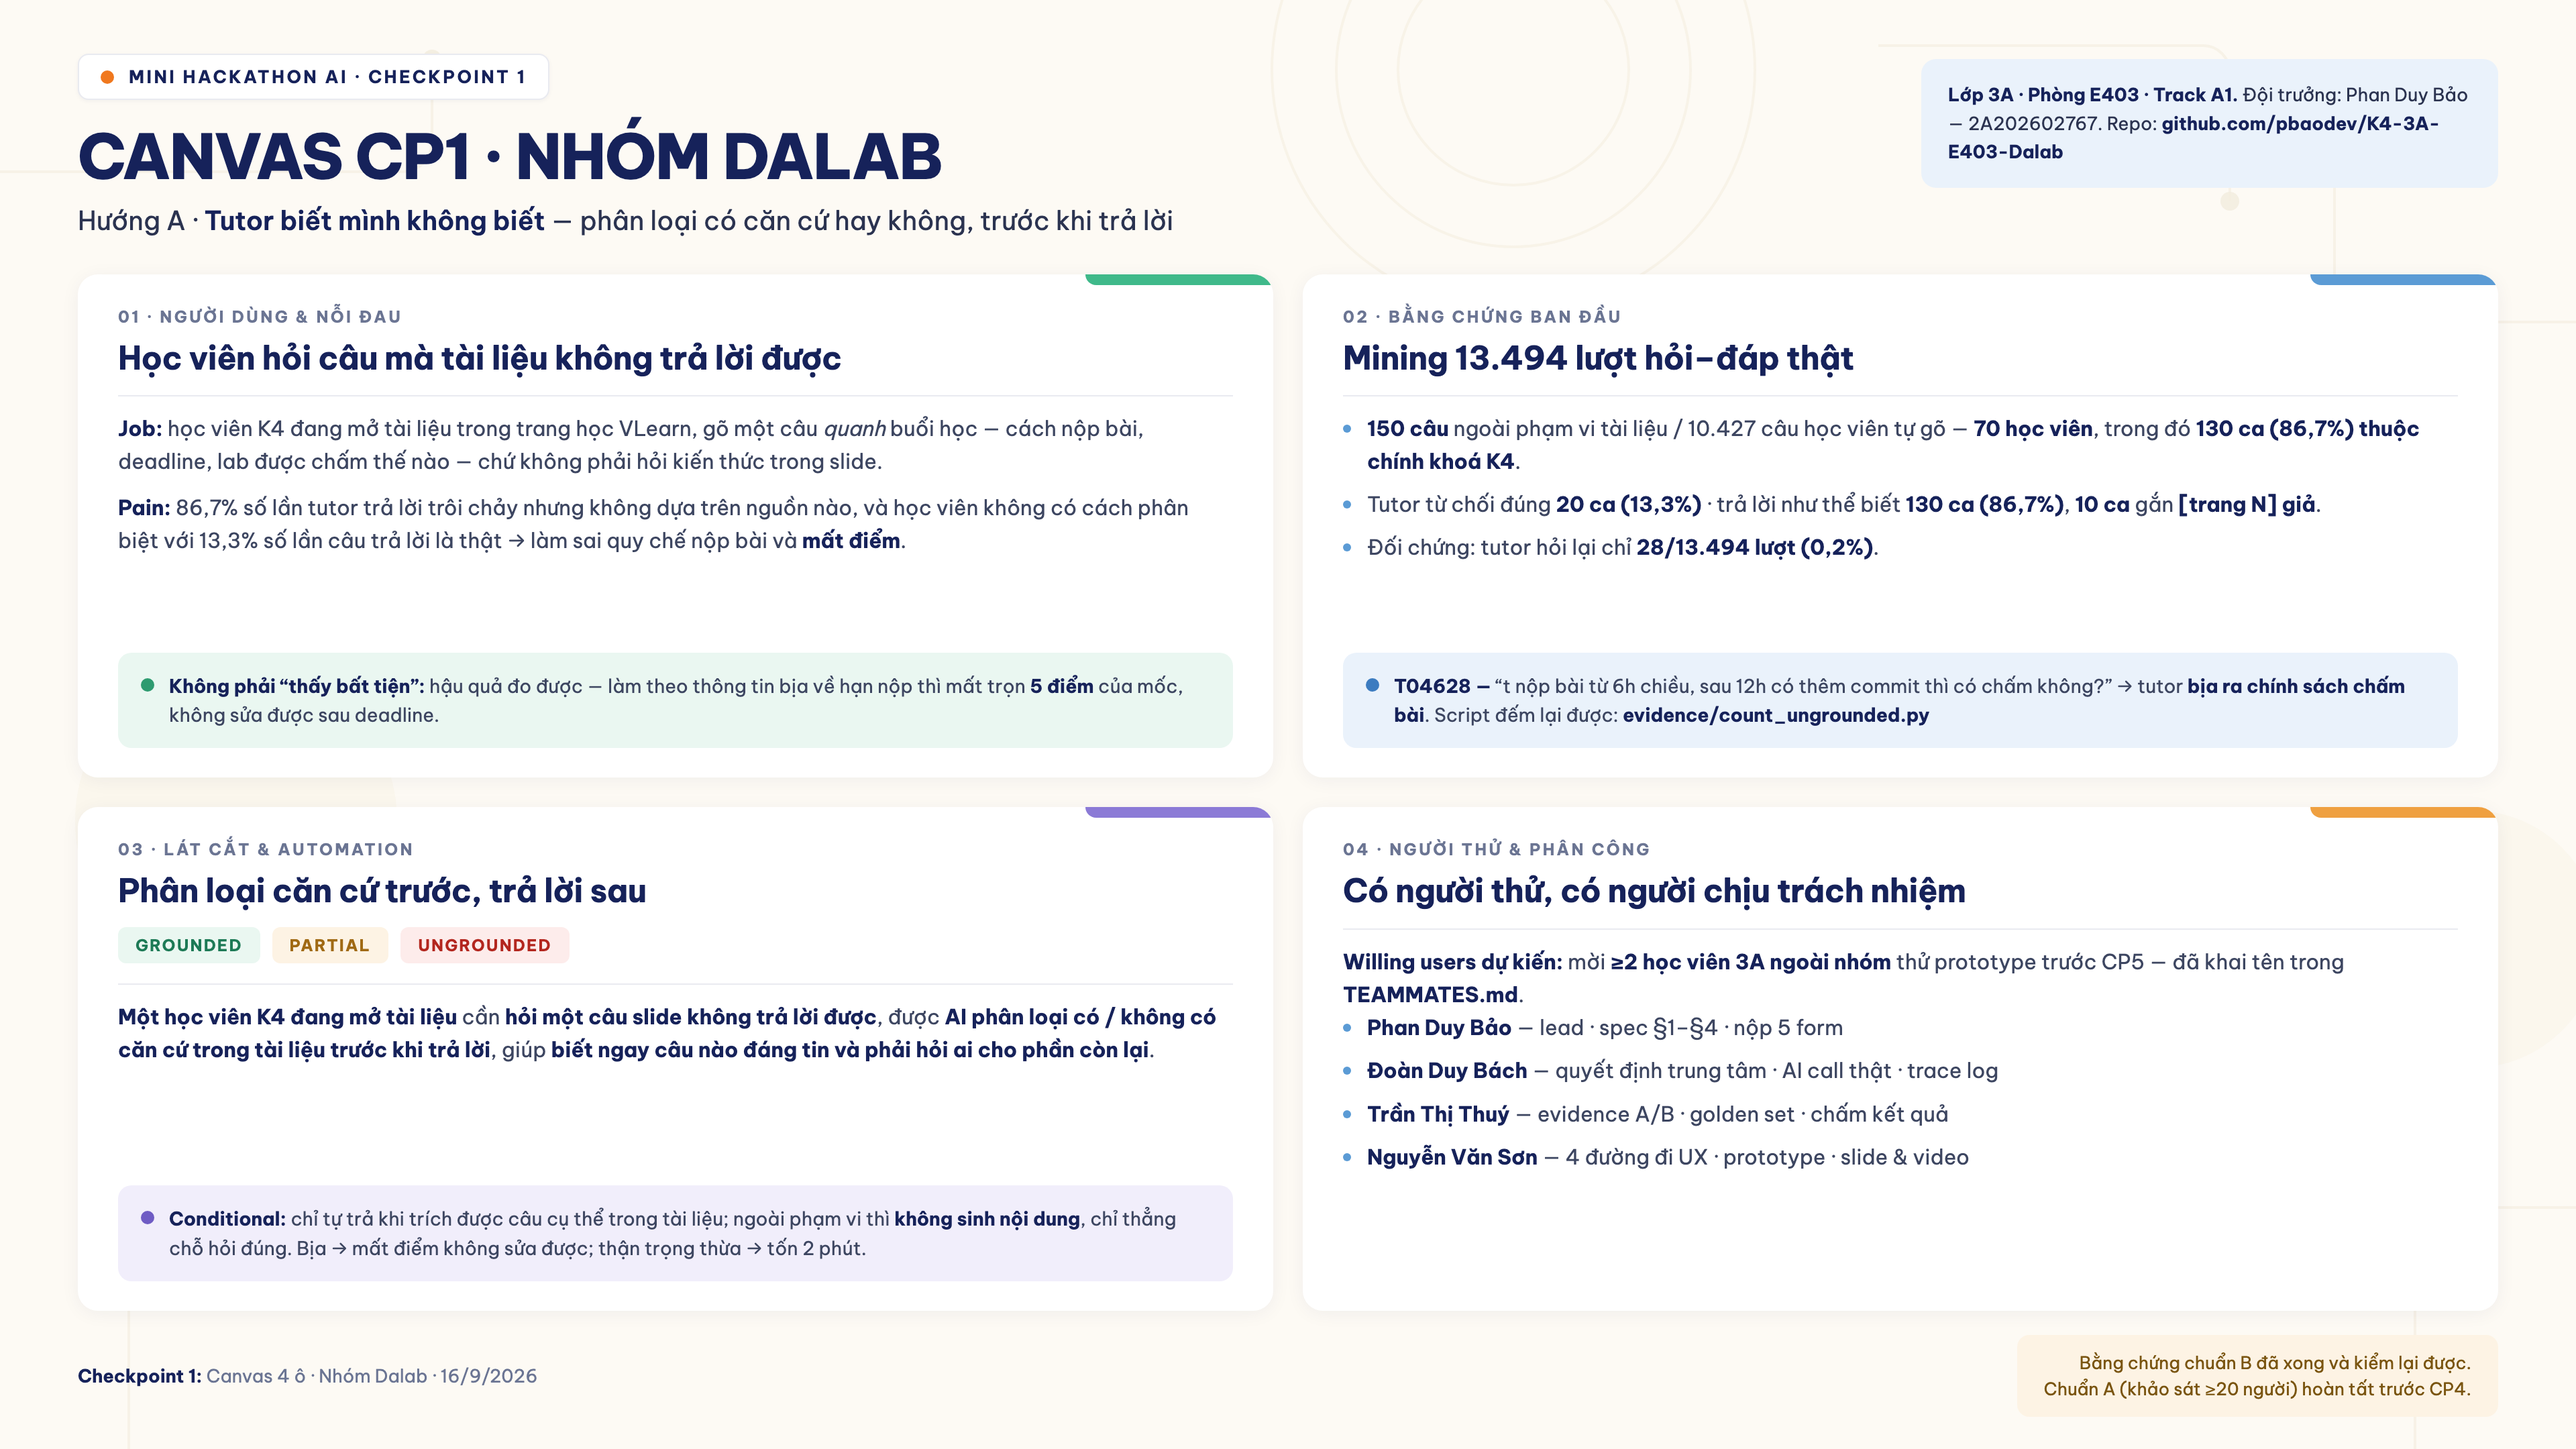
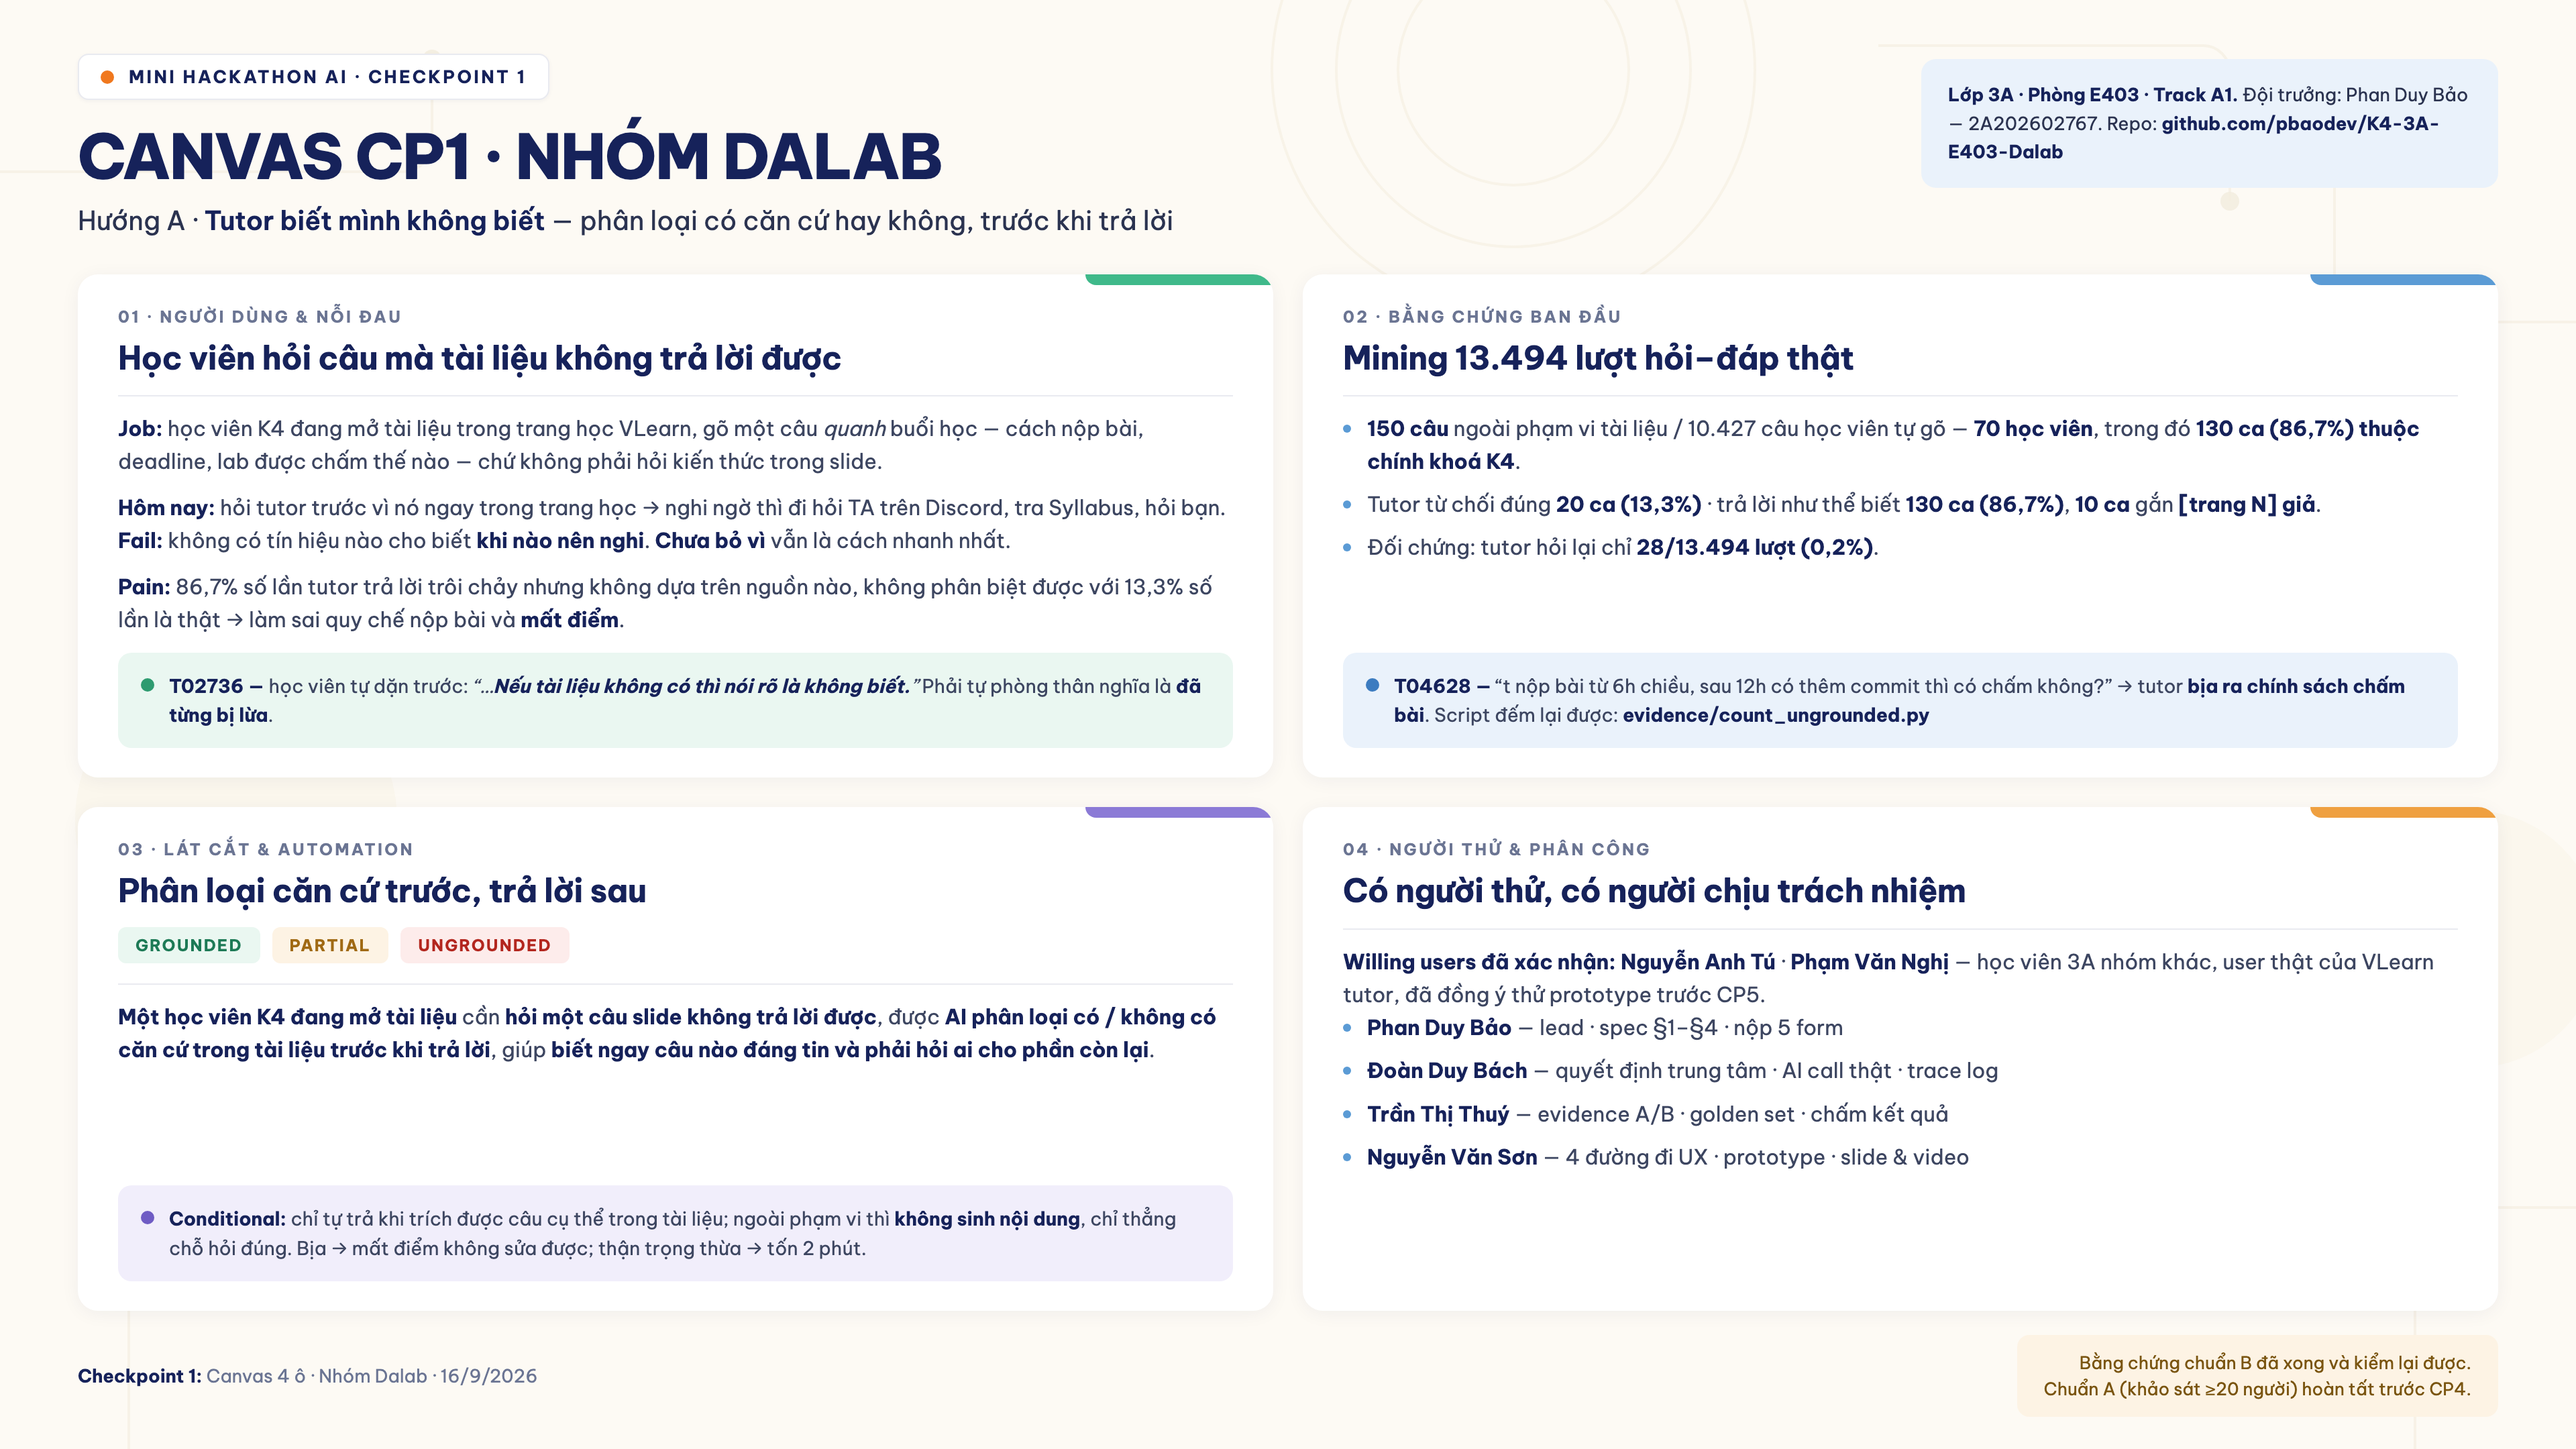
docs: khai willing users va bo sung quy trinh hien tai
- TEAMMATES.md: Nguyen Anh Tu, Pham Van Nghi (da dong y thu prototype)
- spec.md §1: them bang quy trinh hien tai + bang chung T02736
- canvas md/html/png: dong bo ten that, o 01 them 'hom nay / fail / chua bo vi'

Changed region(s): [[0.0312, 0.3412, 0.4688, 0.4343], [0.5312, 0.6514, 0.9375, 0.7134], [0.0625, 0.4653, 0.4688, 0.4963]]

diff --git a/docs/cp1-canvas.html b/docs/cp1-canvas.html
@@ -131,9 +131,10 @@
       <h2>Học viên hỏi câu mà tài liệu không trả lời được</h2>
       <div class="rule"></div>
       <p><b>Job:</b> học viên K4 đang mở tài liệu trong trang học VLearn, gõ một câu <i>quanh</i> buổi học — cách nộp bài, deadline, lab được chấm thế nào — chứ không phải hỏi kiến thức trong slide.</p>
-      <p><b>Pain:</b> 86,7% số lần tutor trả lời trôi chảy nhưng không dựa trên nguồn nào, và học viên không có cách phân biệt với 13,3% số lần câu trả lời là thật → làm sai quy chế nộp bài và <b>mất điểm</b>.</p>
+      <p><b>Hôm nay:</b> hỏi tutor trước vì nó ngay trong trang học → nghi ngờ thì đi hỏi TA trên Discord, tra Syllabus, hỏi bạn. <b>Fail:</b> không có tín hiệu nào cho biết <b>khi nào nên nghi</b>. <b>Chưa bỏ vì</b> vẫn là cách nhanh nhất.</p>
+      <p><b>Pain:</b> 86,7% số lần tutor trả lời trôi chảy nhưng không dựa trên nguồn nào, không phân biệt được với 13,3% số lần là thật → làm sai quy chế nộp bài và <b>mất điểm</b>.</p>
       <div class="callout ct-green">
-        <div><b>Không phải “thấy bất tiện”:</b> hậu quả đo được — làm theo thông tin bịa về hạn nộp thì mất trọn <b>5 điểm</b> của mốc, không sửa được sau deadline.</div>
+        <div><b>T02736 —</b> học viên tự dặn trước: <i>“…<b>Nếu tài liệu không có thì nói rõ là không biết.</b>”</i> Phải tự phòng thân nghĩa là <b>đã từng bị lừa</b>.</div>
       </div>
     </div>
 
@@ -170,7 +171,7 @@
       <div class="tag">04 · Người thử &amp; phân công</div>
       <h2>Có người thử, có người chịu trách nhiệm</h2>
       <div class="rule"></div>
-      <p><b>Willing users dự kiến:</b> mời <b>≥2 học viên 3A ngoài nhóm</b> thử prototype trước CP5 — đã khai tên trong <b>TEAMMATES.md</b>.</p>
+      <p><b>Willing users đã xác nhận:</b> <b>Nguyễn Anh Tú</b> · <b>Phạm Văn Nghị</b> — học viên 3A nhóm khác, user thật của VLearn tutor, đã đồng ý thử prototype trước CP5.</p>
       <ul>
         <li><b>Phan Duy Bảo</b> — lead · spec §1–§4 · nộp 5 form</li>
         <li><b>Đoàn Duy Bách</b> — quyết định trung tâm · AI call thật · trace log</li>

diff --git a/docs/cp1-canvas.md b/docs/cp1-canvas.md
@@ -8,7 +8,11 @@
 
 **1 · Hướng:** Track **A — VLearn Tutor**, đề **A1** (tối ưu AI tutor hiện có).
 
-**2 · Job executor:** Học viên khoá K4 đang mở tài liệu trong trang học VLearn và gõ câu hỏi *quanh* buổi học (cách nộp bài, deadline, lab chấm thế nào) chứ không phải hỏi kiến thức trong slide.
+**2 · Job executor + quy trình hiện tại:** Học viên khoá K4 đang mở tài liệu trong trang học VLearn và gõ câu hỏi *quanh* buổi học (cách nộp bài, deadline, lab chấm thế nào) chứ không phải hỏi kiến thức trong slide.
+
+*Hôm nay họ giải quyết bằng gì:* hỏi tutor trước (ngay trong trang học, nhanh nhất) → nghi ngờ thì đi hỏi TA trên Discord, tra Syllabus, hoặc hỏi bạn. Người cẩn thận tự thêm câu *"nếu không có thì nói không biết"* vào prompt.
+*Fail ở đâu:* không có tín hiệu nào cho biết **khi nào nên nghi**.
+*Vì sao chưa bỏ:* vẫn là cách nhanh nhất, và phần lớn câu hỏi kiến thức tutor trả lời đúng thật.
 
 **3 · Pain một câu:** Học viên K4 hỏi một câu mà tài liệu đang mở không chứa câu trả lời thì **86,7% số lần nhận được câu trả lời trôi chảy nhưng không dựa trên nguồn nào**, và không phân biệt được nó với 13,3% số lần câu trả lời là thật — dẫn tới làm sai quy chế nộp bài và **mất điểm**.
 
@@ -35,4 +39,4 @@ Lý do theo cost-of-error: sai kiểu **bịa** → học viên làm theo → **
 | TRẦN THỊ THUÝ | 2A202602960 | Evidence A/B · golden set · chấm kết quả |
 | NGUYỄN VĂN SƠN | 2A202602744 | 4 đường đi UX · prototype UI · slide + video |
 
-**Willing users (≥2, khai từ CP1):** ⬜ _điền tên thật trước khi bấm nộp form_
+**Willing users (≥2, khai từ CP1):** ✅ **Nguyễn Anh Tú** · **Phạm Văn Nghị** — cả hai là học viên 3A nhóm khác, user thật của VLearn tutor, đã đồng ý thử prototype trước CP5.

diff --git a/TEAMMATES.md b/TEAMMATES.md
@@ -22,8 +22,11 @@
 
 ## Willing users (khai từ CP1 — điều kiện cho khối bonus R6 tại CP5)
 
-| # | Tên | Vai / lớp | Liên hệ | Đã xác nhận |
+| # | Tên | Vai — loại user nào | Liên hệ | Đã xác nhận |
 |---|---|---|---|---|
-| 1 | _(điền tên thật)_ | Học viên 3A, nhóm khác | | ⬜ |
-| 2 | _(điền tên thật)_ | Học viên 3A, nhóm khác | | ⬜ |
-| 3 | _(điền tên thật)_ | Học viên 3A / TA | | ⬜ |
+| 1 | **Nguyễn Anh Tú** | Học viên 3A, nhóm khác — user thật của VLearn tutor | | ✅ đã đồng ý |
+| 2 | **Phạm Văn Nghị** | Học viên 3A, nhóm khác — user thật của VLearn tutor | | ✅ đã đồng ý |
+
+> Hai bạn trên đã đồng ý cho nhóm mượn ~10 phút bấm thử prototype trước CP5.
+> Tại CP5 sẽ giao task theo **kết quả** (không chỉ nút), nhóm **im lặng quan sát**
+> và chép **nguyên văn** câu họ nói — log vào `validation/user_testing_log.md`.
